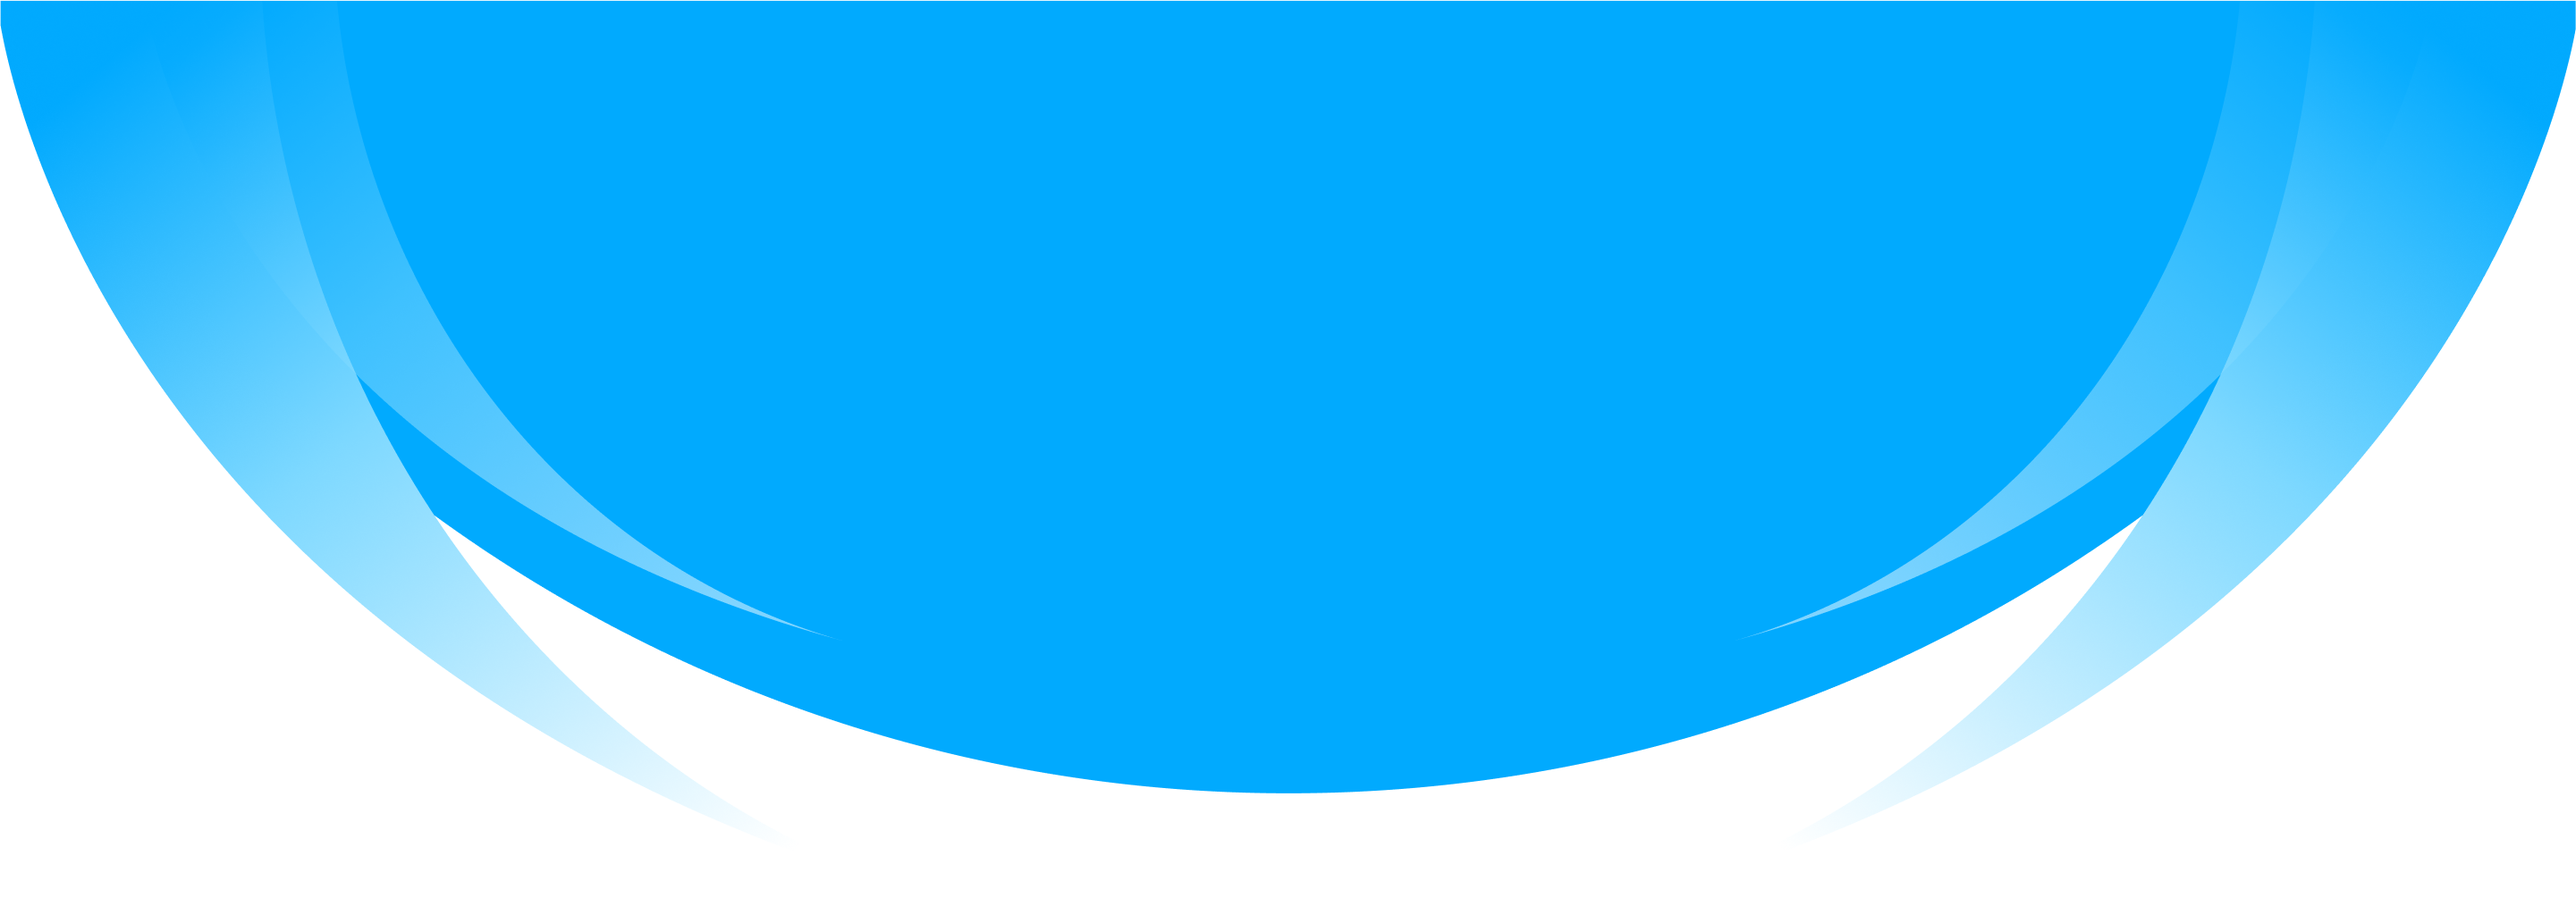
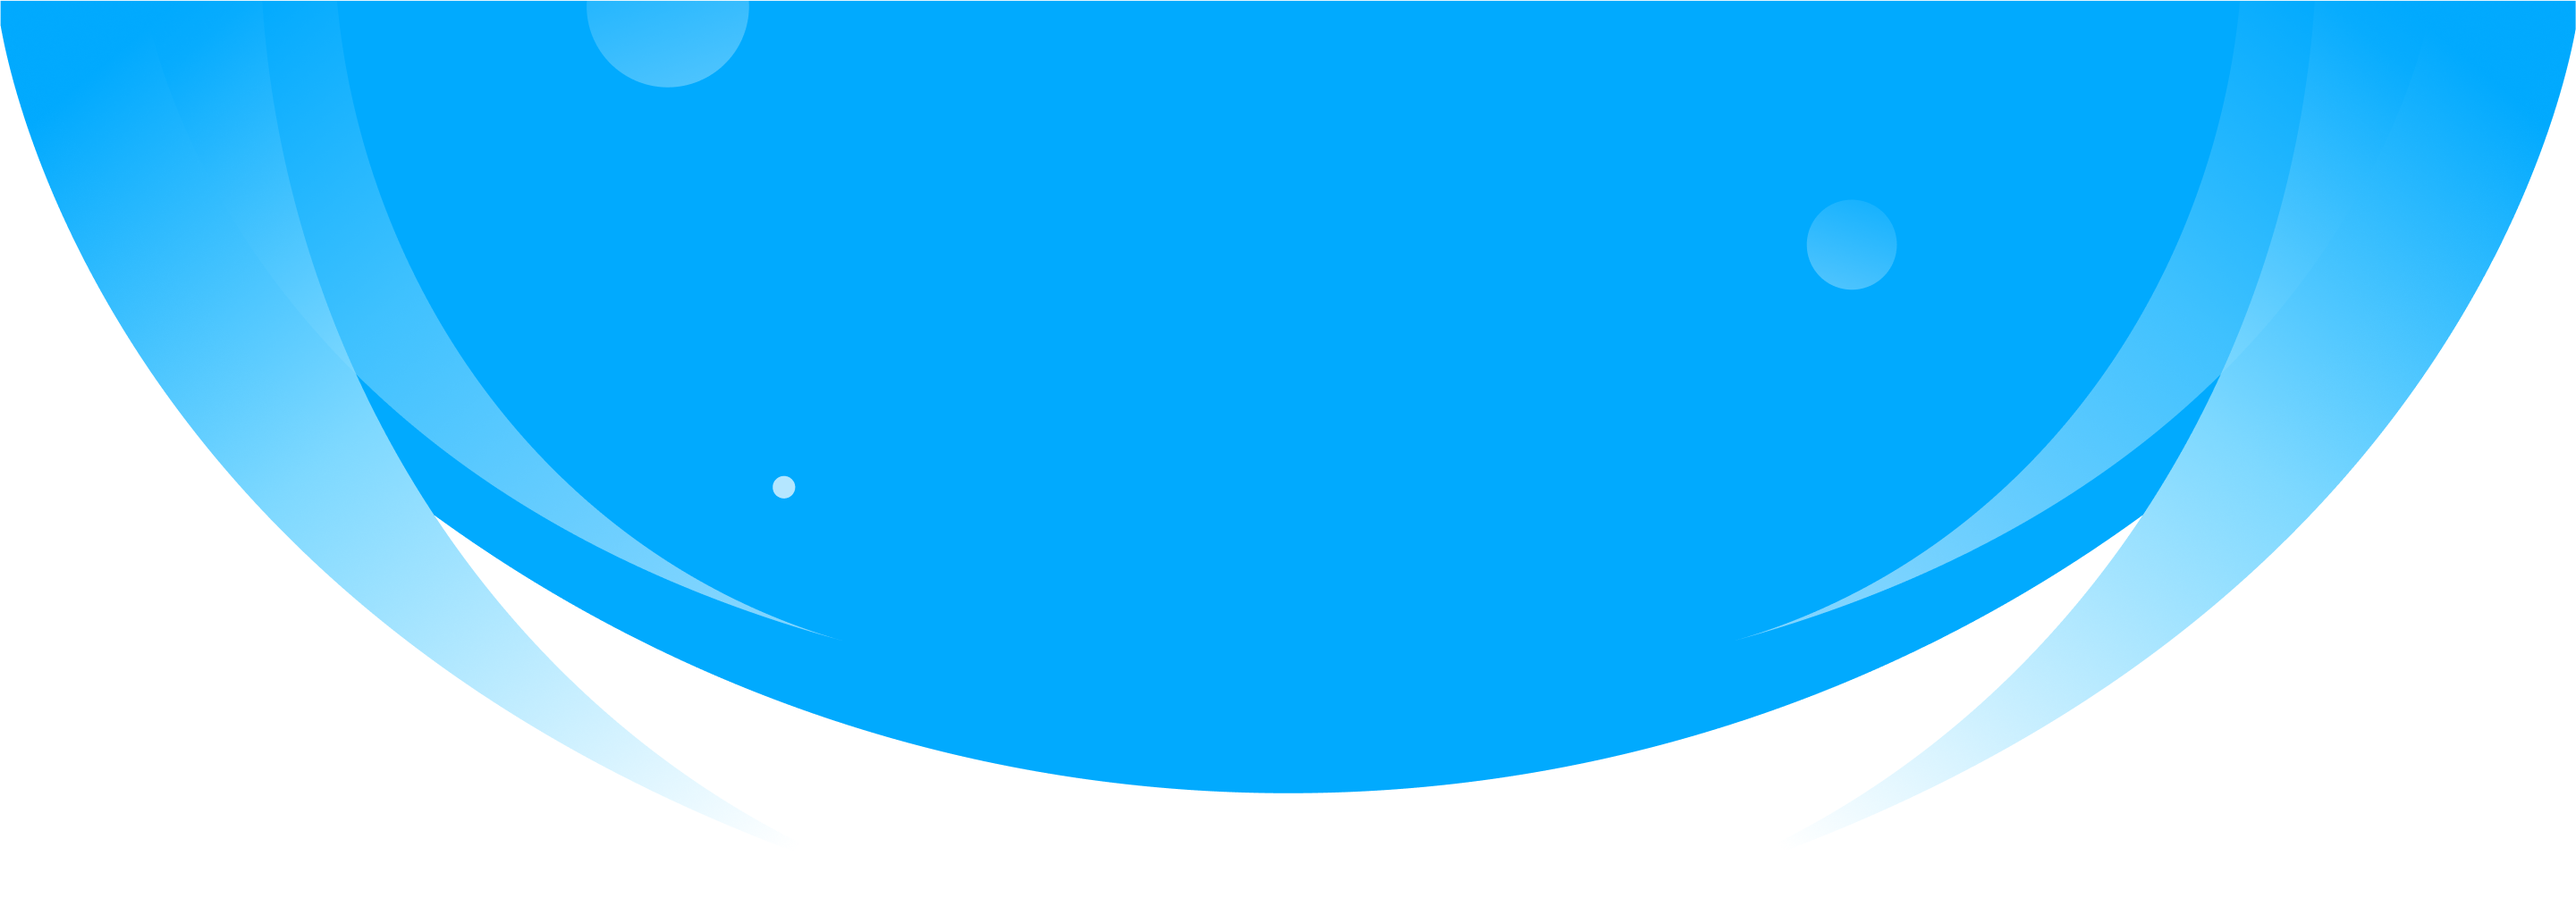
Add images to 'KV' and 'Vision' sections
Add images to 'KV' and 'Vision' sections

Changed region(s): [[0.6873, 0.214, 0.7497, 0.3363], [0.2187, 0.0, 0.3124, 0.0917], [0.2812, 0.5197, 0.3124, 0.5503]]

diff --git a/index.html b/index.html
@@ -52,35 +52,35 @@
         </div>
       </header>
       <div id="contents__wrapper">
-
         <div id="kv__wrapper">
           <div id="kv__wrapperInner">
-
-          <section id="kv__container">
-            <h1 class="kv__headerText">Every<br />Best<br />Answer</h1>
-            <p class="kv__messageText">
-              私たちと一緒に新しい価値を生み出す チャレンジを楽しみましょう!
-            </p>
-            <button class="link__type3">募集要項 / エントリー</button>
-          </section>
+            <section id="kv__container">
+              <h1 class="kv__headerText">Every<br />Best<br />Answer</h1>
+              <p class="kv__messageText">
+                私たちと一緒に新しい価値を生み出す チャレンジを楽しみましょう!
+              </p>
+              <button class="link__type3">募集要項 / エントリー</button>
+            </section>
           </div>
-
-          <div id="vision__wrapper">
-          <section id="vision__container">
-            <h1 class="vision__header presentation__headerText">
-              経営理念とビジョン
-            </h1>
-            <p class="vision__messageText">
-              私たちは「お客様を幸せにする」という経営理念のもと、
-              IT技術を通じて人類に貢献し続けることを目指しています。
-            </p>
-            <p class="vision__messageText">
-              そのために、技術を磨くだけでなく、
-              私たち自身が「努力って楽しい」と思えるような挑戦をし、
-              変化や成長を前向きに受け入れる文化を大切にしています。
-            </p>
-          </section>
-        </div>
+        <!-- </div> -->
+        <!-- <div id="vision__wrapper"> -->
+          <div id="vision__wrapperInner">
+            <section id="vision__container">
+              <h1 class="vision__header presentation__headerText">
+                経営理念とビジョン
+              </h1>
+              <p class="vision__messageText">
+                私たちは「お客様を幸せにする」という経営理念のもと、
+                IT技術を通じて人類に貢献し続けることを目指しています。
+              </p>
+              <p class="vision__messageText">
+                そのために、技術を磨くだけでなく、
+                私たち自身が「努力って楽しい」と思えるような挑戦をし、
+                変化や成長を前向きに受け入れる文化を大切にしています。
+              </p>
+            </section>
+          </div>
+        <!-- </div> -->
 
         <div id="message__wrapper">
           <div id="message__wrapperInner">

diff --git a/css/style.css b/css/style.css
@@ -342,20 +342,27 @@ body {
 
 #contents__wrapper {
   background-color: var(--color-blue300);
-  padding-top: 70px;
 }
 
 #kv__wrapper {
   width: var(--base-wrapper-width);
-  padding: 70px 0;
+  padding-top: 70px;
+  background: linear-gradient(180deg, #75d5ff, #01aafe 9%, #ffffff 16%);
 }
 #kv__wrapperInner {
   width: var(--base-container-width);
+  min-height: 500px;
+  margin: 0 auto;
+
   display: flex;
   justify-content: right;
+  padding: 52px 0;
+  background-image: url(../img/img_keyvisual.png);
+  background-size: cover;
 }
 #kv__container {
   width: 272px;
+  margin-right: 30px;
   color: white;
 }
 
@@ -367,7 +374,7 @@ body {
   margin-bottom: 24px;
 }
 
-button.link__type3 {
+.link__type3 {
   font: var(--text-h4);
   background-color: var(--color-Accent1);
   padding: 20px 16px;
@@ -376,13 +383,19 @@ button.link__type3 {
 }
 
 #vision__wrapper {
-  width: var(--base-container-width);
-  display: flex;
-  justify-content: center;
+  width: var(--base-wrapper-width);
+}
+#vision__wrapperInner {
+  width: var(--base-wrapper-width);
+  background-image: url(../img/bg_vision.png);
+  background-size: contain;
+  background-repeat: no-repeat;
   padding: 70px 0 240px;
+  min-height: 525px;
 }
 #vision__container {
   width: 430px;
+  margin: 0 auto;
   color: var(--color-white);
 }
 #vision__container .vision__header {
